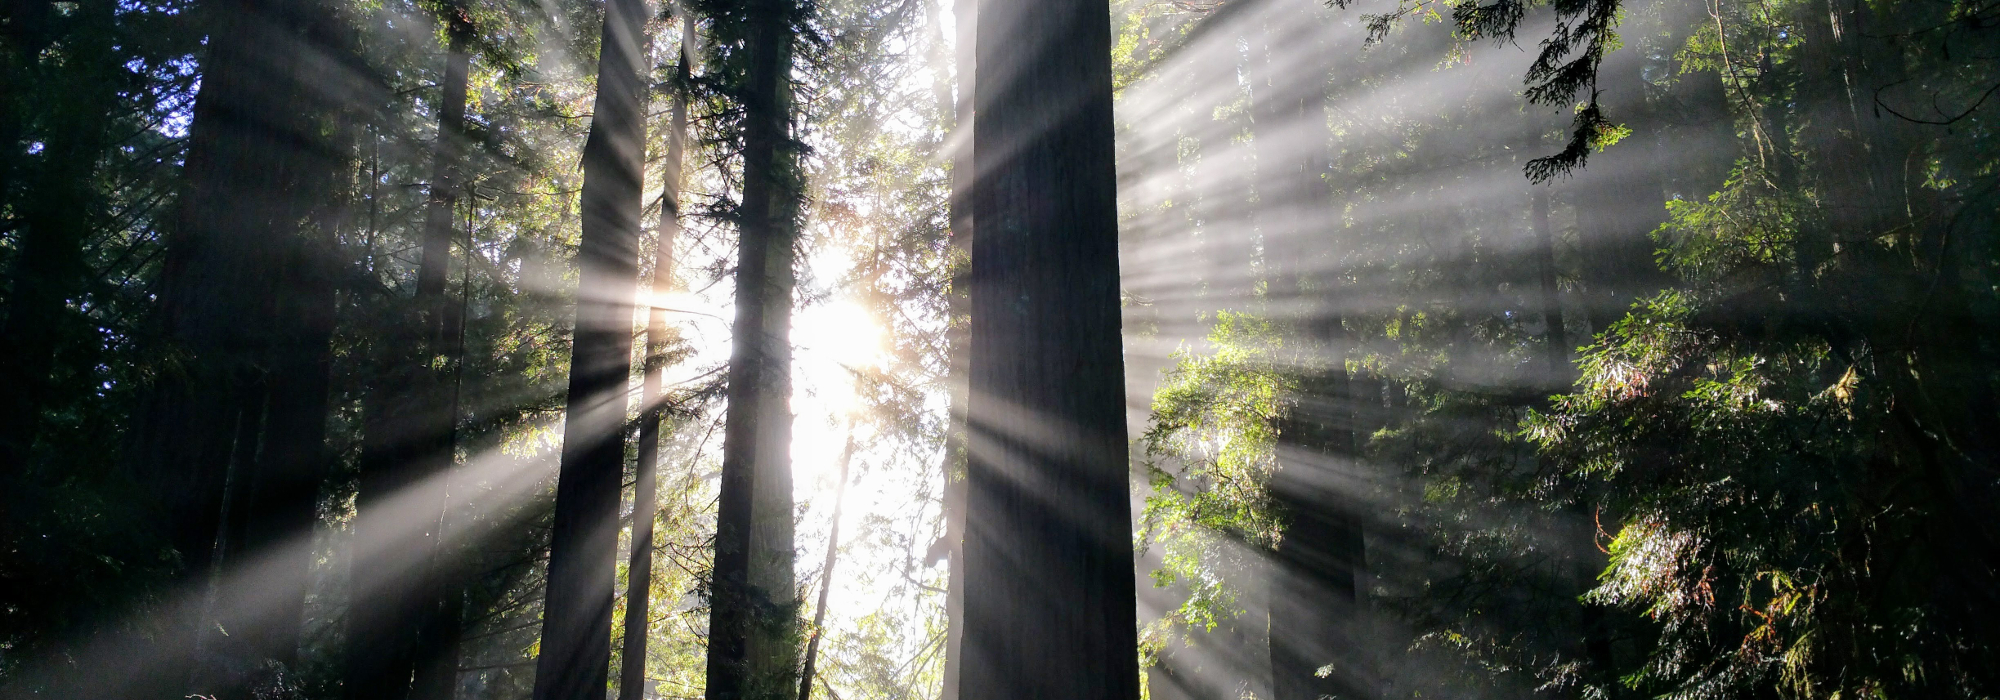
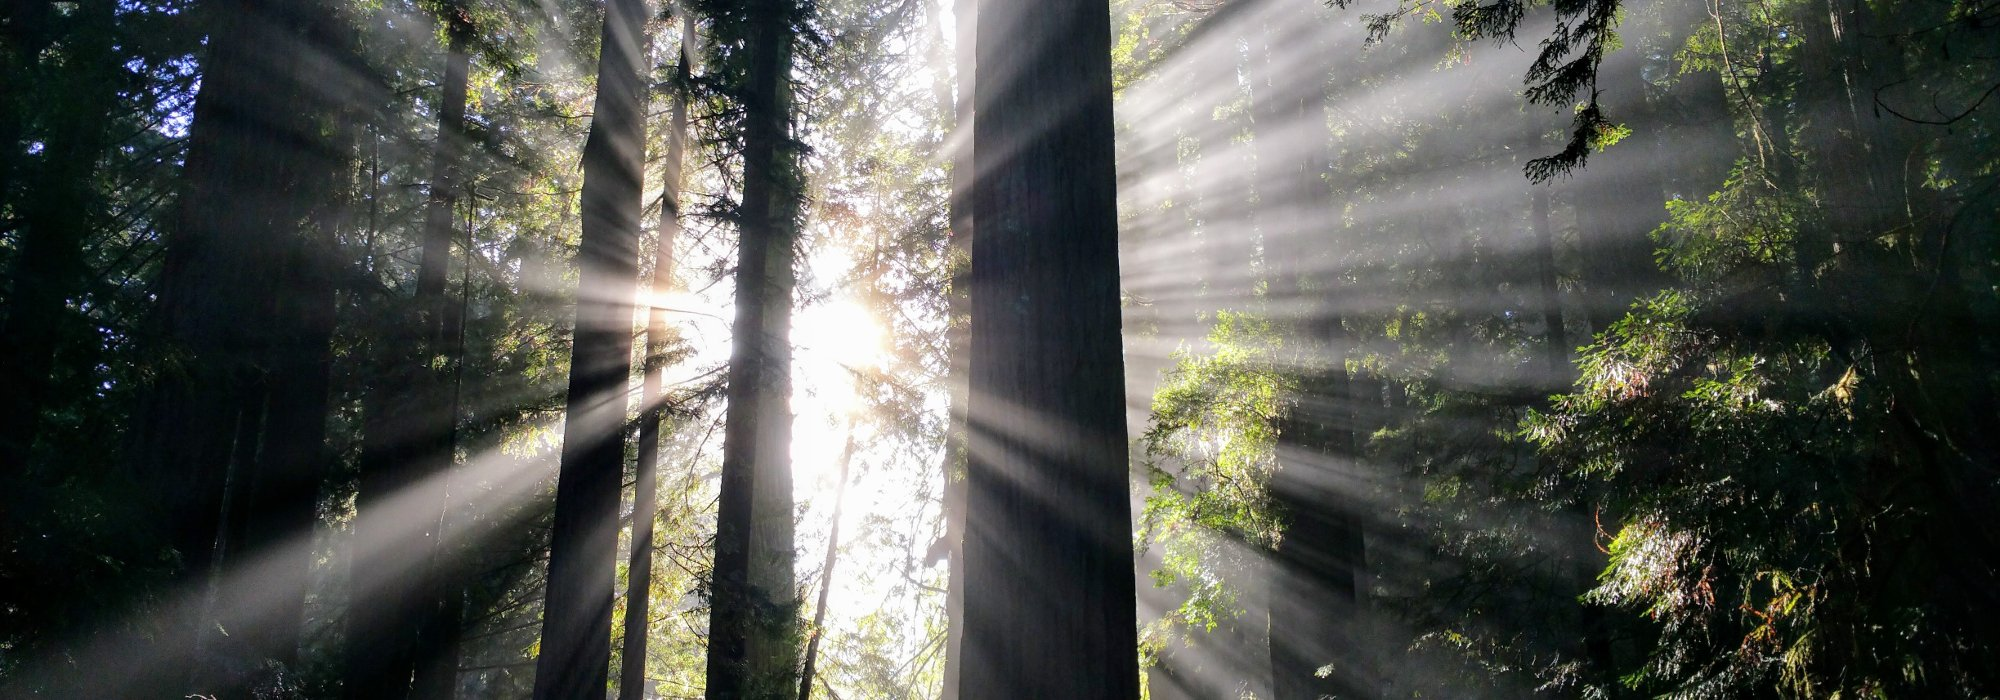
Moved script loads, changed button colors, compressed images

diff --git a/_includes/head.html b/_includes/head.html
@@ -4,20 +4,14 @@
 	Released for free under the Creative Commons Attribution 3.0 license (templated.co/license)
 -->
 <head>
-
     <title>{% if page.title %}{{ page.title }}{% else %}{{ site.title }}{% endif %}</title>
     <meta http-equiv="content-type" content="text/html; charset=utf-8" />
     <meta name="description" content="" />
     <meta name="keywords" content="" />
-    <!--[if lte IE 8]><script src="js/html5shiv.js"></script><![endif]-->
-    <script src="{{ site.baseurl }}/js/jquery.min.js"></script>
-    <script src="{{ site.baseurl }}/js/skel.min.js"></script>
-    <script src="{{ site.baseurl }}/js/skel-layers.min.js"></script>
-    <script src="{{ site.baseurl }}/js/init.js"></script>
     <noscript>
         <link rel="stylesheet" href="{{ site.baseurl }}/css/skel.css" />
         <link rel="stylesheet" href="{{ site.baseurl }}/css/style.css" />
         <link rel="stylesheet" href="{{ site.baseurl }}/css/style-xlarge.css" />
-	<link rel="alternate" type="application/rss+xml" href="http://ceptr.org/feed.xml" />
+	      <link rel="alternate" type="application/rss+xml" href="{{ site.baseurl }}/feed.xml" />
     </noscript>
 </head>

diff --git a/_includes/homebody.html b/_includes/homebody.html
@@ -93,7 +93,7 @@
 									to support tech documentation, back-end development, or front-end UI (We need a lot of UI/UX help!).
 									Back-end systems are built mostly in Go, while front-end application UI is browser-based JavaScript.</p>
 									<ul class="actions">
-										<li><a href="https://slackin-mkmbtdlhdx.now.sh" class="button alt">Join Our Slack</a></li>
+										<li><a href="https://slackin-mkmbtdlhdx.now.sh" class="button special">Join Our Slack</a></li>
 									</ul>
 								<a href="#" class="image fit"><img src="images/road_to_light.jpg" alt="" /></a>
 								<h3>Other Ways to Participate</h3>
@@ -101,7 +101,7 @@
 										If you like what you see, but <b>are not so technical</b>, visit the <a href="http://metacurrency.org">MetaCurrency Project</a>
 										for other ways to participate.</p>
 									<ul class="actions">
-										<li><a href="http://MetaCurrency.org" class="button alt">Explore and Participate</a></li>
+										<li><a href="http://MetaCurrency.org" class="button special">Explore and Participate</a></li>
 									</ul>
 							</section>
 						</div>

diff --git a/_includes/footer.html b/_includes/footer.html
@@ -40,3 +40,10 @@
         </ul>
     </div>
 </footer>
+<!-- ACB Moved Javascript loading to Footer to increase pageload times and reduce "Flash of Unstyled Content" -->
+
+<!--[if lte IE 8]><script src="js/html5shiv.js"></script><![endif]-->
+<script src="{{ site.baseurl }}/js/jquery.min.js"></script>
+<script src="{{ site.baseurl }}/js/skel.min.js"></script>
+<script src="{{ site.baseurl }}/js/skel-layers.min.js"></script>
+<script src="{{ site.baseurl }}/js/init.js"></script>

diff --git a/css/custom.css b/css/custom.css
@@ -30,6 +30,18 @@ section#one .box {
 section#one .box a {
   text-decoration: none;
 }
+/* General Color Theme shift from light blues toward dark green */
+a {color: #4B6F34
+}
+.icon.major {
+  background-color: #4B6F34 !important;
+}
+input[type="submit"].special,
+input[type="reset"].special,
+input[type="button"].special,
+.button.special {
+  background-color: #4B6F34 !important;
+}
 
 /* WHITEPAPER STYLES */
 body.whitepaper div.authors {
